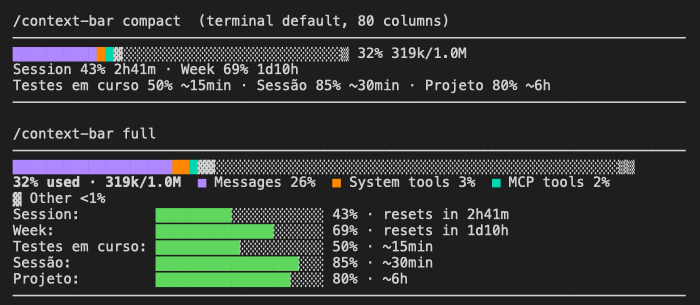
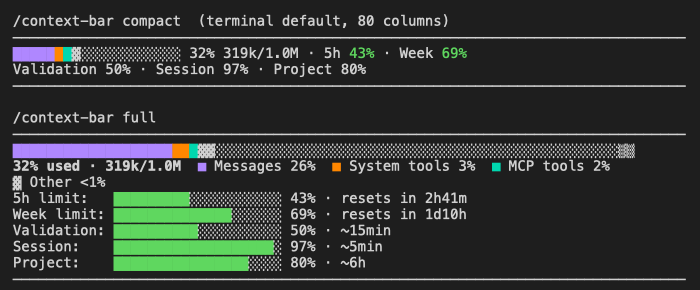
Compact layout: one or two lines, percentages only, limits coloured by pace

Changed region(s): [[0.0, 0.3724, 0.99, 0.9931], [0.0, 0.031, 0.99, 0.3414]]

diff --git a/context-bar/hooks/register.tsx b/context-bar/hooks/register.tsx
@@ -310,7 +310,7 @@ export const register: Register = on => {
     const columns = e.surface === 'terminal' ? e.props.bodyColumns : Math.floor(e.props.bodyColumns * 0.8)
     const width = full
       ? Math.max(10, Math.min(100, columns - 6))
-      : Math.max(10, Math.min(40, columns - summary.length - 8))
+      : 20
     const shown = topSegments(snap.segments, 3)
     const split = cells(shown, total, width)
     const bar = shown.map((s, i) =>
@@ -332,23 +332,29 @@ export const register: Register = on => {
     }
 
     if (!full) {
-      // One row for the context (with the limits when they fit beside it, else on their own row),
-      // one for the estimates: `Sessão 40% ~3h · Projeto 72% ~45h`.
-      const limitsText = lims.map(l => limitText(l, true)).join(' · ')
-      const isLimitsInline = lims.length > 0 && width + 1 + summary.length + 3 + limitsText.length <= columns - 4
+      // Compact: percentages only (reset times and time left are in `full` and the gauges), one
+      // line when it fits, else the estimates on a second line. Each limit's percentage is coloured
+      // by pace, the same cue as the gauges' arc.
+      const shortLabel = (l: string) => l.replace(' limit', '')
+      const limitsText = lims.map(l => `${shortLabel(l.label)} ${Math.round(l.percent)}%`).join(' · ')
+      const estText = est ? est.lines.map(l => `${l.label} ${l.percent}%`).join(' · ') : ''
+      const head = width + 1 + summary.length + (limitsText ? 3 + limitsText.length : 0)
+      const isOneLine = !estText || head + 3 + estText.length <= columns - 4
+      const estLine = estText && <Text>{estText}</Text>
       return (
         <Box flexDirection="column">
           <Text wrap="truncate">
             {bar}
             <Text> {summary}</Text>
-            {isLimitsInline && <Text> · {limitsText}</Text>}
+            {lims.map(l => (
+              <Text>
+                {' · '}
+                {shortLabel(l.label)} <Text color={TEXT_STATUS[pace(l, now).status]}>{Math.round(l.percent)}%</Text>
+              </Text>
+            ))}
+            {isOneLine && estText && <Text> · {estLine}</Text>}
           </Text>
-          {lims.length > 0 && !isLimitsInline && <Text wrap="truncate">{limitsText}</Text>}
-          {est && (
-            <Text wrap="truncate">
-              {est.lines.map(l => `${l.label} ${l.percent}%${l.left ? ` ${l.left.split(/\s/)[0]}` : ''}`).join(' · ')}
-            </Text>
-          )}
+          {!isOneLine && <Text wrap="truncate">{estLine}</Text>}
         </Box>
       )
     }

diff --git a/README.md b/README.md
@@ -130,7 +130,7 @@ See what the mod sees right now, to report a problem:
 | Layout | What it shows |
 |---|---|
 | `gauges` | The ring gauges above (desktop app; a terminal shows `compact` instead) |
-| `compact` | A short bar with `% used tokens/window`, then the limits and the estimates |
+| `compact` | One line (two when narrow): a short bar, `% used tokens/window`, and the limit and estimate percentages; each limit's percentage is coloured by pace |
 | `full` | A full-width bar, the top categories, and a 20-block bar per limit and per estimate |
 
 
